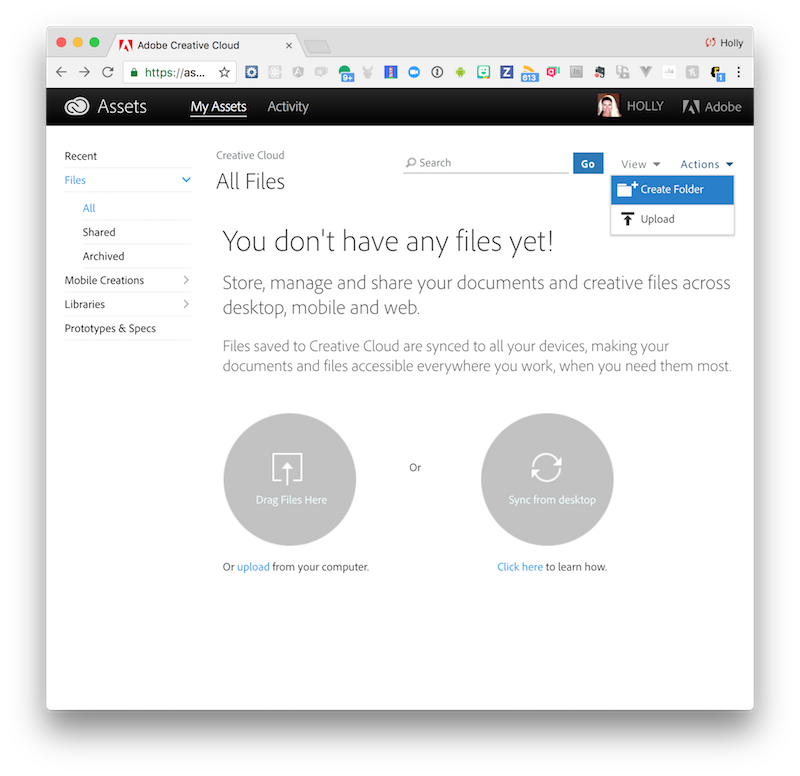
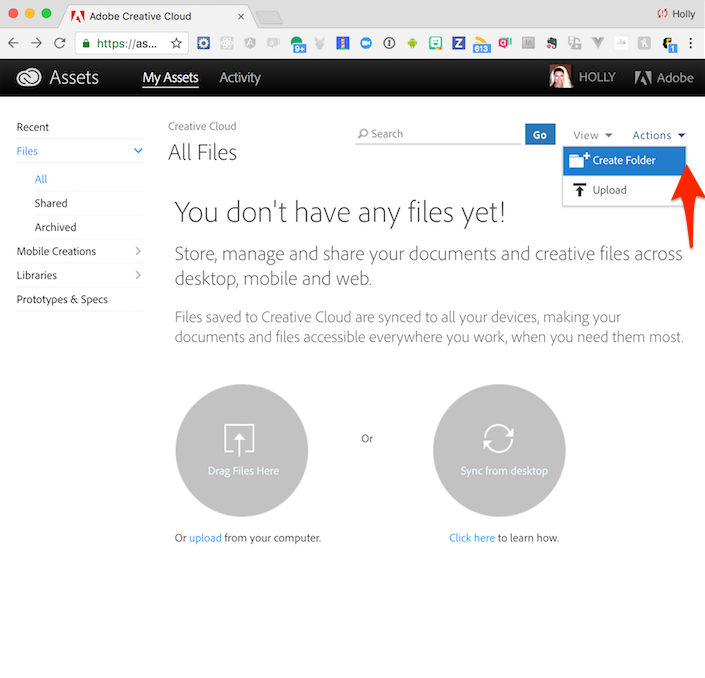
Continued content

Changed region(s): [[0.0, 0.0, 1.0, 0.9602], [0.4993, 0.5885, 0.5305, 0.6195]]

diff --git a/lesson5.md b/lesson5.md
@@ -15,12 +15,9 @@ In this exercise you will use the Adobe Sensei Image Quality function to
 
 4. Using the Adobe I/O Runtime Shell, preview the current session flow for exercise 1 with the following command:
 
-      app preview ~/adobe-sensei-ai-functions/exercises/exercise-1/composition.js
+       app preview ~/adobe-sensei-ai-functions/exercises/exercise-1/composition.js
 
-5. Go back into VS Code and open `exercises/exercise-1`. Add the Sensei Image Quality function which is defined with an action name of `/sensei/1.0/sensei-imagequality`. You'll need to pass in the `imageObject` parameter for `image` and retain the results. Begin coding at the TODO block ```/**
-     * TODO: Invoke the /sensei/1.0/sensei-imagequality action
-     * passing the imageObject as parameter
-     */```
+5. Go back into Visual Studio Code and open `exercises/exercise-1/composition.js`. Locate the `TODO` block comment and add a call to the Sensei Image Quality function, which is defined using an action name of `/sensei/1.0/sensei-imagequality`. You'll need to pass in the `imageObject` parameter for `image` and retain the results. 
 
      <!-- SOLUTION
      composer.retain(
@@ -35,27 +32,29 @@ In this exercise you will use the Adobe Sensei Image Quality function to
     ({result, params}) => Object.assign({}, result, params)-->
 
 ## Try it!
-1. First preview your composition again to ensure your new changes are shown:
+1. Preview your composition again to ensure your new changes are shown:
 
-      app preview ~/adobe-sensei-ai-functions/exercises/exercise-1/composition.js
+     app preview ~/adobe-sensei-ai-functions/exercises/exercise-1/composition.js
 
-2. Next update the current `asset_created_composition` app with your new version:
+![](images/exercise1-flow.png)
+
+1. Update the current `asset_created_composition` app with your new version:
 
       app update asset_created_composition ~/adobe-sensei-ai-functions/exercises/exercise-1/composition.js
 
-3. Now open the browser to your Creative Cloud files again and navigate into the new folder you created in a previous step (**sensei-lab-1** for instance).
+1. Now open the browser to your Creative Cloud files again and navigate into the new folder you created in a previous step (**sensei-lab-1** for instance).
 
-4. Trigger an `asset_created` event by uploading an image to this folder. We've provided one for testing within the `~/adobe-sensei-ai-functions/images` folder named `exercise-1.png`. Drag and drop the image into the folder.
+1. Trigger an `asset_created` event by uploading an image to this folder. We've provided one for testing within the `~/adobe-sensei-ai-functions/images` folder named `exercise-1.png`. Drag and drop the image into the folder.
 
-5. Switch back to the Adobe I/O Runtime Shell and type:
+1. Switch back to the Adobe I/O Runtime Shell and type:
 
-      session list
+       session list
 
-  > This command will list all the sessions running, including actions and apps.
+   > This command will list all the sessions running, including actions and apps.
   
-6. Locate the most recent `asset_created_composition` running and click on the session id to view the result.
+1. Locate the most recent `asset_created_composition` running and click on the session id to view the result.
 
-> In the Adobe I/O Runtime Shell, you can execute the `action get /sensei/1.0/` command to view all of the current Adobe Sensei functions defined in your namespace for use.
+   > In the Adobe I/O Runtime Shell, you can execute the `action get /sensei/1.0/` command to view all of the current Adobe Sensei functions defined in your namespace for use.
 
 
 <div class="row" style="margin-top:40px;">

diff --git a/lesson4.md b/lesson4.md
@@ -4,20 +4,18 @@ title: Lesson 4&#58; Event Handler Webhook
 ---
 
 ## Overview
-Understand how your integration is configured with a webhook to respond to any Creative Cloud Asset Created Events.
+Understand how your Adobe I/O integration is configured with a webhook to respond to **Creative Cloud _Asset Created_** events.
 
 ## Exercises
 1. Go back to the [Adobe I/O Console](https://console.adobe.io), ensure the **Integrations** tab is selected and click on your pre-defined integration again (ie: `Sensei lab X` - where X is your assigned lab #).
 
-2. Select the **Events** tab and notice an item listed with the name **Sensei Event Handler**. Click on the Edit button to the right of it  item to expand the details of the configured webhook, like shown below:
+2. Select the **Events** tab and notice an item listed with the name **Sensei Event Handler**. Click on the **Edit** button to the right of it  item to expand the details of the configured webhook, like shown below:
 
     ![](images/webhook-details.png)
 
-    > Notice the items outlined in red in the screenshot. These two fields essentially define a URL endpoint event handler to be invoked any time the Creative Cloud Asset Created event occurs.
+    > Notice the items outlined in red in the screenshot. These two fields define a URL endpoint event handler to be invoked any time a Creative Cloud Asset Created event occurs.
 
-3. The URL defined for the webhook event handler is actually an `action` you could now view in the Adobe I/O Runtime Shell.
-
-4. Switch back to the Adobe I/O Runtime Shell application and enter the following command:
+3. The URL defined for the webhook event handler is actually an `action` you could now view in the Adobe I/O Runtime Shell. Switch back to the Adobe I/O Runtime Shell application and enter the following command:
 
         action list
 
@@ -25,9 +23,9 @@ Understand how your integration is configured with a webhook to respond to any C
 
    ![](images/asset_created_composition_handler.png)
 
-   > The package name and action name are the parts of the URL following your designated namespace. So for instance, based on the URL. So based on the pre-defined URL's, your namespace/package name is: `sensei-lab-X/acp-events`. To view the actions in that package specifically, you could use the command: `actions get /sensei-lab-X/acp-events/`.
+   > You can also list actions specific to a namespace/package and use a command like: `actions get /sensei-lab-x/acp-events/` with your assigned namespace/lab number.
 
-5. Click on the **HANDLER** action in it and take a look at the code definition briefly to see more details on how this handler works.
+5. Click on the **HANDLER** action within the `asset_created_composition_handler` and take a look at the code definition briefly to see more details on how this handler works.
 
    An example of the log output from an invocation of this handler is shown below for reference:
 

diff --git a/lesson6.md b/lesson6.md
@@ -7,13 +7,13 @@ title: Lesson 6&#58; Manual Upload Path
 In this exercise you will add an action to be used for uploading an asset to the creative cloud manually when a certain quality value is not met.
 
 ## Exercises
-1. In VS Code, open `exercises/exercise-2`. 
+1. In VS Code, open `exercises/exercise-2/composition.js`. 
 
-2. Add an action to check the image quality from the previous step, and if quality is not met, upload it to the Creative Cloud manually using the `/adobe/acp-assets-0.5.0/cc-upload-manual` action.
+2. Locate the `TODO` comment block and code an action to check the image quality value from the previous step. If the quality is not met, upload it to the Creative Cloud manually using the `/adobe/acp-assets-0.5.0/cc-upload-manual` action.
 
-   > HINT: You can check the `scores.quality` value off the `params` to determine the quality. 
+   > HINT: You can check the `scores.quality` value off the `params` to determine the quality.
    
-   Once again, begin coding at the TODO block ```/**
+   <!-- 
     * TODO: check the image quality. If quality is not met, upload
     * the asset into a folder invoking the '/adobe/acp-assets-0.5.0/cc-upload-manual' action.
     * Use composer.if( <condition>, <then>, <else>) construct.
@@ -21,7 +21,7 @@ In this exercise you will add an action to be used for uploading an asset to the
     * (params) => params
      */```
 
-     <!-- SOLUTION
+     SOLUTION
       composer.if(
         params => params.scores.quality > 0.64,
         /* if quality is met, process the image and upload to AEM */
@@ -33,17 +33,17 @@ In this exercise you will add an action to be used for uploading an asset to the
 ## Try it!
 1. First preview your composition again to ensure your new changes are shown:
 
-    app preview ~/adobe-sensei-ai-functions/exercises/exercise-2/composition.js
+       app preview ~/adobe-sensei-ai-functions/exercises/exercise-2/composition.js
 
 2. Next update the current `asset_created_composition` app with your new version:
 
-    app update asset_created_composition ~/adobe-sensei-ai-functions/exercises/exercise-2/composition.js
+       app update asset_created_composition ~/adobe-sensei-ai-functions/exercises/exercise-2/composition.js
 
 3. Now open the browser to your Creative Cloud folder previously created again and trigger an `asset_created` event by uploading the `~/adobe-sensei-ai-functions/images/exercise-2.png` image into it.
 
 5. Switch back to the Adobe I/O Runtime Shell and type:
 
-      session list
+       session list
 
 6. Locate the most recent `asset_created_composition` running and click on the session id to view the result.
 

diff --git a/lesson2.md b/lesson2.md
@@ -7,12 +7,12 @@ title: Lesson 2&#58; Adobe I/O Runtime Shell
 The Adobe I/O Runtime Shell is a graphical interface to help you visualize and debug your serverless functions and compositions with great ease. It has been pre-installed on your machine and you will use it throughout the workshop. Before using it however, you must authorize your namespace to give yourself your own sandbox to play in for the duration of this lab.
 
 ## Setup
-1. Open Finder and locate the Adobe I/O Runtime Shell ![](images/adobe-runtime-shell-logo.png):
+1. Open Finder and locate the Adobe I/O Runtime Shell ![](images/adobe-runtime-shell-logo.png)
 2. Authorize your designated Adobe I/O Runtime namespace based on the auth key provided for your userid by entering the following command:
 
         auth add your_namespace_key_goes_here
 
-    You should receive a response for your userid like shown below:
+    Verify you see a response for your userid similar to below:
 
    ![](images/auth-namespace.png)
 
@@ -29,17 +29,16 @@ The Adobe I/O Runtime Shell is a graphical interface to help you visualize and d
 
        app preview @demos/if.js
 
- ![](images/if-flow.png)
-  
- > Take a moment and click on the **Code** tab and notice how it uses the `authenticate` action as the condition, and takes the `welcome` or `login` action path depending on the result returned from `authenticate`. You can also click on any of the actions that make up this app to find out more details on the expected parameters etc...
+  ![](images/if-flow.png)  
+4. Take a moment to click on the **CODE** tab and notice how it uses the `authenticate` action as the condition, and takes the `welcome` or `login` action path depending on the result returned.
 
-           composer.if(
-             /* cond */
-             'authenticate',
-             /* then */
-             'welcome',
-             /* else */
-             'login')
+    composer.if(
+      /* cond */
+      'authenticate',
+      /* then */
+      'welcome',
+      /* else */
+      'login')
 
 <div class="row" style="margin-top:40px;">
 <div class="col-sm-12">

diff --git a/lesson9.md b/lesson9.md
@@ -7,9 +7,9 @@ title: Lesson 9&#58; Sensei Auto Tag & AEM Update Tags
 In this exercise you will add the Sensei Auto Tag function to ... and use the AEM Update Tags action to update the tags for the image in AEM.
 
 ## Exercises
-1. In VS Code, open `exercises/exercise-5`. 
+1. In VS Code, open `exercises/exercise-5/composition.js`. 
 
-Solution:
+<!--Solution:
      /**
        * TODO: Autotag the image invoking '/sensei/1.0/sensei-autotag' action.
        */
@@ -35,22 +35,23 @@ Solution:
        * Return the result as-is
        */
       result => result
-    ),
+    ),-->
 
 ## Try it!
+
 1. First preview your composition again to ensure your new changes are shown:
 
-    app preview ~/adobe-sensei-ai-functions/exercises/exercise-5/composition.js
+       app preview ~/adobe-sensei-ai-functions/exercises/exercise-5/composition.js
 
 2. Next update the current `asset_created_composition` app with your new version:
 
-    app update asset_created_composition ~/adobe-sensei-ai-functions/exercises/exercise-5/composition.js
+       app update asset_created_composition ~/adobe-sensei-ai-functions/exercises/exercise-5/composition.js
 
 3. Now open the browser to your Creative Cloud folder previously created again and trigger an `asset_created` event by uploading the `~/adobe-sensei-ai-functions/images/exercise-5.png` image into it.
 
 5. Switch back to the Adobe I/O Runtime Shell and type:
 
-      session list
+       session list
 
 6. Locate the most recent `asset_created_composition` running and click on the session id to view the result.
 
@@ -58,7 +59,7 @@ Solution:
 
     AEM instance: `http://52.151.23.3:4502/`
     userid: `labadmin`
-    pw: `jumpyice54!!`
+    pw: `jumpyice54!!
     
 <div class="row" style="margin-top:40px;">
 <div class="col-sm-12">

diff --git a/lesson8.md b/lesson8.md
@@ -4,12 +4,12 @@ title: Lesson 8&#58; Sensei Auto Swatch & AEM Copy/Crop
 ---
 
 ## Overview
-In this exercise you will add the Sensei Auto Swatch function to ... and use the AEM action to crop and copy it into AEM. 
+In this exercise you will add the Sensei Auto Swatch function to ... and use the AEM action to crop and copy it into AEM.
 
 ## Exercises
-1. In VS Code, open `exercises/exercise-4`. 
+1. In VS Code, open `exercises/exercise-4/composition.js`. 
 
-Solution:
+<!--Solution:
      /**
        * Invoke '/sensei/1.0/sensei-autoswatch'
        */
@@ -29,22 +29,23 @@ Solution:
        *  invoking '/adobe/acp-assets-0.5.0/aem-copy-asset-and-crop' action
        */
       '/adobe/acp-assets-0.5.0/aem-copy-asset-and-crop'
-    ),
+    ),-->
 
 ## Try it!
+
 1. First preview your composition again to ensure your new changes are shown:
 
-    app preview ~/adobe-sensei-ai-functions/exercises/exercise-4/composition.js
+       app preview ~/adobe-sensei-ai-functions/exercises/exercise-4/composition.js
 
 2. Next update the current `asset_created_composition` app with your new version:
 
-    app update asset_created_composition ~/adobe-sensei-ai-functions/exercises/exercise-4/composition.js
+       app update asset_created_composition ~/adobe-sensei-ai-functions/exercises/exercise-4/composition.js
 
 3. Now open the browser to your Creative Cloud folder previously created again and trigger an `asset_created` event by uploading the `~/adobe-sensei-ai-functions/images/exercise-4.png` image into it.
 
 5. Switch back to the Adobe I/O Runtime Shell and type:
 
-      session list
+       session list
 
 6. Locate the most recent `asset_created_composition` running and click on the session id to view the result.
 

diff --git a/lesson7.md b/lesson7.md
@@ -7,17 +7,17 @@ title: Lesson 7&#58; Sensei Body Crop
 In this exercise you will add the Sensei Body Crop function to 
 
 ## Exercises
-1. In VS Code, open `exercises/exercise-3`. 
+1. In VS Code, open `exercises/exercise-3/composition.js`. 
 
 
 ## Try it!
 1. First preview your composition again to ensure your new changes are shown:
 
-    app preview ~/adobe-sensei-ai-functions/exercises/exercise-3/composition.js
+     app preview ~/adobe-sensei-ai-functions/exercises/exercise-3/composition.js
 
 2. Next update the current `asset_created_composition` app with your new version:
 
-    app update asset_created_composition ~/adobe-sensei-ai-functions/exercises/exercise-3/composition.js
+     app update asset_created_composition ~/adobe-sensei-ai-functions/exercises/exercise-3/composition.js
 
 3. Now open the browser to your Creative Cloud folder previously created again and trigger an `asset_created` event by uploading the `~/adobe-sensei-ai-functions/images/exercise-3.png` image into it.
 

diff --git a/lesson3.md b/lesson3.md
@@ -26,11 +26,11 @@ The Adobe I/O Console provides the definitive destination for any developer look
 
 1. Once logged in, look for the **Creative Cloud Files** link under **Assets** and click on it.
 
-1. **IMPORTANT** Before moving on, you must create your own personal folder to be used throughout this workshop. On the top right, click on the Actions arrow and choose to Create Folder from the options.
+1. **IMPORTANT:** Before moving on, you must create your own personal folder to be used throughout this workshop. On the top right, click on the **Actions** arrow and choose **Create Folder** from the options. Name it `sensei-lab-x` where `x` is your assigned lab user number.
 
-  ![](images/cc-folder-create.png)
+   ![](images/cc-folder-create.png)
 
-   Name it `sensei-lab-x` where x is your assigned lab user number.
+     
 
 <div class="row" style="margin-top:40px;">
 <div class="col-sm-12">
